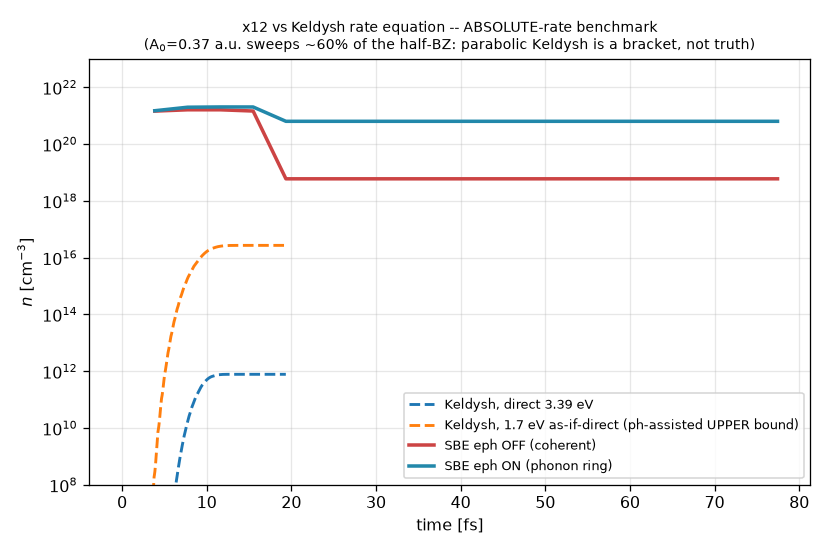
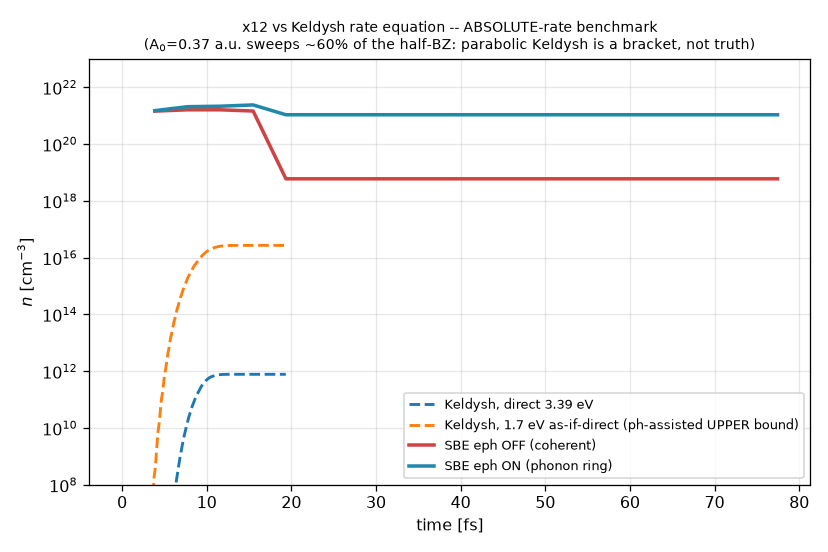
sbe: virtual-transient gate default OFF -- diagnostic confirms envelope-following dressing defeats a lifetime gate
Coherent-only diagnostic (x12 field, dissipation off, per-step Houston
projection): the Houston CB population adiabatically follows the field
envelope (corr with A^2 = 0.987, peak 0.56 e-/supercell) and 99.9% of it
returns to the VB at switch-off; the diabatic count breathes the same way
(peak/final = 468x). In sub-cycle fields no lifetime gate or instantaneous
projection separates real carriers from this dressing -- reality is defined
only by switch-off survival. The tau = 2*pi/Egap floor passes ~60% of the
dressing and trims only sub-cycle fringes (-41% on x12-ON).

sbe_ring_gate_fs default 0 = OFF (bit-identical to no-gate; -1 auto / >0
manual kept as experimental knobs). x12 reference numbers restored to the
ungated values; README gains a 'real vs virtual' section stating the honest
calibration status: the ring's dressing conversion is golden-rule
phonon-assisted tunneling (Hurkx/Kane BTBT mechanism) but scaled by nu_sat
(real-carrier intervalley rate) without off-shell suppression -- absolute
nex at gamma <~ 1 is an upper estimate pending the rate benchmark.

Claude-Session: https://claude.ai/code/session_01BPmECfuWC7UD3rhcA1hTKp

Changed region(s): [[0.2114, 0.1848, 0.936, 0.2464]]

diff --git a/wiki/00_implementation_status.md b/wiki/00_implementation_status.md
@@ -111,7 +111,7 @@ Maintainer-driven analysis tool (pure Python on the EPM refs; **no SBE/Fortran c
 x11 showcase inputs updated with the new channels (holes+acoustic+checkpoints on for Si/GaAs; calibrated prefactor for CdS; acoustic for graphene; **graphene Coulomb Σ^HF (A7) + acoustic DP-override knob on**; A1/A5/B3 as commented optional knobs). Tests: **20/20** (extended: B1 bit-identity, B3, A5, A1, A2, A6 energy balance, registry Cp/Cn + acoustic constants incl. CdS Rode E₁=14.5).
 - ✅ **CPTP global limiter in `ring_apply_dpop` (2026-07-10, maintainer bug report):** with the full channel set + a large `dt` (~0.5 fs) the per-step `dpop` (a sum over many independent quadruples against step-START populations) could **overdraw** a sink state; the old per-state `max(f+dpop, 0)` clip silently kept the paired gains ⇒ **trace violation runaway** (Si showcase: electrons 8 → 16.45 within 10 steps of the free-carrier-screen activation). Fix: before applying, compute the largest global $s\in[0,1]$ with every $f + s\,{\rm dpop} \in [0,{\rm occ}]$ (`comm_get_min` across ranks), apply $s\,$dpop (trace of $s\,$dpop = 0 **exactly**), scale the paired `gout` coherence damping by the same $s$, and print a one-time `# ring CPTP limiter engaged` diagnostic. Validated: the same full-channel Si run at dt=20.7 a.u. now holds electrons = 8.000 over the whole run (limiter s = 0.118 — the old runaway condition). NOT a spinor issue: `occ_max` is 2/1 scalar/spinor consistently; the doubling was the clip feedback.
 - ✅ **OpenMP in the ring kernels (2026-07-10):** `eph_interk_dpop`, `ii_interk_dpop` (both blocks) and `auger_interk_dpop` (both blocks) now carry `!$omp parallel do … reduction(+:dpop)` over the outer source loop — the dominant O(nk³) cost parallelizes across threads inside each MPI rank (array-reduction; `gout` is owner-written). No-OpenMP builds are unaffected (directives are comments).
-- ✅ **Ring virtual-transient gate — population kernels see REAL carriers only (2026-07-19, maintainer: "e-ph должен быть заменой T2 для виртуальных, но конвертирует слишком активно"):** the ring channels read the instantaneous Houston populations, which during the pulse contain sub-cycle LZ/field-dressing **transients** the reversible unitary takes back; population-scattering them at the saturated ν_sat real-ifies virtual population at the *maximum* CP-consistent rate (absolute `nex` at γ≲1 came out orders above the as-if-direct Keldysh bracket — see `samples/…x12…/rate_benchmark.py`). Fix: `f_ring_gate` = **persistent Houston floor** — drops with f instantly, rises toward f with τ_gate = 2π/E_gap (the energy–time virtuality scale; Si ≈ 2.5 fs) — feeds ALL ring population kernels + the free-carrier screen + the FD fit; the **gout/T2 coherence damping keeps the full per-carrier ν** (e-ph retains its dephasing role for virtual electrons — dephasing-trapped carriers become persistent after τ_gate and only then transport). Knob `sbe_ring_gate_fs` (−1 auto = 2π/E_gap, 0 off, >0 manual). Gate ≤ f by construction ⇒ no overdraw; trace exactness untouched (verified: full channel set at dt=10 a.u., I=1e12 — electrons 8.000 every step). x12 eph-ON: 1.07e21 → 6.3e20 cm⁻³ (−41 % = the direct virtual-transfer share at γ≈1); eph-OFF bit-identical. Remaining calibration knobs for ABSOLUTE rates: nk convergence, σ_E, ν_sat(ε) near the edge — the rate-equation benchmark script ships with x12.
+- ⚠ **Ring virtual-transient gate — EXPERIMENTAL, default OFF (2026-07-19, maintainer: "возможно виртуальные электроны адиабатически следуют за полем и долго живут — проверь"):** the maintainer's doubt was **confirmed by a dedicated coherent-only diagnostic** (x12 field, dissipation off, per-step Houston projection): the Houston CB population *adiabatically follows the field envelope* — corr(n_H, A²)=0.987, peak 0.56 e⁻/supercell at 13 fs, **99.9 % returns** to the VB at switch-off — and the diabatic count breathes the same way (peak/final = 468×). In a sub-cycle field (x12: envelope 19 fs < period 33 fs; THz runs likewise) **no lifetime gate and no instantaneous projection can separate real carriers from the envelope-following dressing** — reality is defined only by switch-off survival. The implemented floor gate (τ = 2π/E_gap) passes ~60 % of the dressing and trims only sub-cycle fringes (−41 % on x12-ON), so `sbe_ring_gate_fs` now defaults to **0 = OFF** (>0 manual, −1 auto — for experiments; default path is bit-identical to no-gate). The honest state of the ABSOLUTE rates: the ring's conversion of the dressing IS golden-rule phonon-assisted tunneling (Hurkx/Kane BTBT — the right *mechanism* for indirect Si), but it uses ν_sat (the cited *real-carrier* intervalley rate) as its scale, which sits **orders above** BTBT parametrizations at these fields (Keldysh/Hurkx brackets: 10¹⁶–10¹⁸ vs SBE 6×10²⁰–10²¹ cm⁻³ on x12) — the off-shell (energy-denominator) suppression of the eph matrix element between virtual states is NOT in the model. Until a calibrated ν_eff for virtual states exists (benchmark: `samples/…x12…/rate_benchmark.py`, maintainer cluster runs), treat frozen-window nex magnitudes at γ ≲ 1 / quasi-DC fields as upper estimates; distributions (k, band, cooling) are unaffected. the ring channels read the instantaneous Houston populations, which during the pulse contain sub-cycle LZ/field-dressing **transients** the reversible unitary takes back; population-scattering them at the saturated ν_sat real-ifies virtual population at the *maximum* CP-consistent rate (absolute `nex` at γ≲1 came out orders above the as-if-direct Keldysh bracket — see `samples/…x12…/rate_benchmark.py`). Fix: `f_ring_gate` = **persistent Houston floor** — drops with f instantly, rises toward f with τ_gate = 2π/E_gap (the energy–time virtuality scale; Si ≈ 2.5 fs) — feeds ALL ring population kernels + the free-carrier screen + the FD fit; the **gout/T2 coherence damping keeps the full per-carrier ν** (e-ph retains its dephasing role for virtual electrons — dephasing-trapped carriers become persistent after τ_gate and only then transport). Knob `sbe_ring_gate_fs` (−1 auto = 2π/E_gap, 0 off, >0 manual). Gate ≤ f by construction ⇒ no overdraw; trace exactness untouched (verified: full channel set at dt=10 a.u., I=1e12 — electrons 8.000 every step). x12 eph-ON: 1.07e21 → 6.3e20 cm⁻³ (−41 % = the direct virtual-transfer share at γ≈1); eph-OFF bit-identical. Remaining calibration knobs for ABSOLUTE rates: nk convergence, σ_E, ν_sat(ε) near the edge — the rate-equation benchmark script ships with x12.
 - ✅ **CP extension of the frozen-window dissipators to the active↔frozen coherences (2026-07-19, maintainer cluster report "след 8.003, nelec/nhole отрицательные"):** two coupled defects seen on a 9³/nstate=24 Si run with ALL channels + dt=0.25 fs — a monotone trace drift (electrons 8.000→8.012 over 1.8 ps) and post-pulse **negative** nelec/nhole (−5·10²⁰ cm⁻³). Reproduced locally (4³/nstate=16, dt=10 a.u., all channels: 8.000→8.004 in 70 steps). Root causes and fixes: **(1) eeh trace leak** — `carrier_carrier_relax` fitted the Fermi–Dirac target to the [0,1]-**clamped** populations but mixed it with the **raw** diagonal, so any negative/overfull diagonal created (destroyed) trace at rate α·(occ·n_clamped − Tr ρ) every sub-step; rewritten as a pure transfer `ρ_aa += α·occ·(f_FD − f_clamped)` (Σ = 0 exactly; identical to the old convex mix whenever the raw diagonal is in [0,occ]). **(2) PSD loss at the active↔frozen boundary** (the *source* of the negative diagonals): every block dissipator damped coherences only *inside* the active window, leaving the active↔frozen coherences at full strength after a population loss — then |ρ_af|² > f_a·f_f, ρ stops being PSD, and the next step's Houston diagonal dips below 0 (a principal submatrix of a PSD ρ *cannot* have a negative Houston population, so any fold<0 is proof of upstream PSD loss). Fix = the exact Kraus lift K₀⊕1_frozen: `ring_apply_dpop` now applies D = W·diag(damp)·W† to the ρ(active,frozen) blocks (damp is the same per-state loss factor, incl. the e-ph gout exponential — the *least-decohering* CP-consistent extension: any weaker factor is not CP-realizable given the block action), and the eeh channel damps them by the same (1−α) its within-block coherences get (convex mix of identity and the replace-block⊕keep-frozen channel — CPTP by construction; plumbed as `cross_damp` out of `houston_dissipate`). **(3) limiter slack** — a state whose remaining capacity is pure roundoff (full valence band vs. a 1e-13 flux) no longer stalls the whole BZ through the global min: ratios get an absolute `captol = 1e-12` (overdraw bounded by captol; trace still exact). Validated (4³/nstate=16, frozen {3..7}, dt=10 a.u., eph+ac+II+holes+phassist+Auger+eeh+Coulomb, I=1e12): **electrons = 8.000 at every step, no negative nelec/nhole, e–h neutrality gap 2.6e-2 → 7e-5**. Physics note: the CP-mandated decoherence of the frozen-sector coherences converts part of the *virtual* (reversible) dressing into *real* carriers whenever a genuine scattering event fires — collision-assisted generation. This is physical and was previously suppressed by the (CP-violating) undamped coherences: the x12 eph-ON showcase generates more real carriers than the pre-fix build (lowest-CB hierarchy preserved). k-local ring-off channels and the Kuhn-Zurek dephasing kernel still damp only within the block — same disease possible there at strong loss; noted as the remaining refinement.
 - ✅ **`ring_apply_dpop` trace-exact in the FROZEN window (2026-07-13, found while validating phonon-assisted indirect generation):** the ring wrote back the Houston-basis diagonal as `fnew = max(fold + scal·dpop, 0)`, but the CPTP limiter `scal` was built from the **[0,occ]-clamped** `fold` while the write used the **raw** `fold`. In a **frozen** active window the ring transforms a *principal submatrix* of ρ (active↔frozen coherences dropped) to the active-block Houston basis; that submatrix can have a Houston population dip a hair below 0, and the `max(·,0)` then **created** population every step — a ~0.5 % electron leak at strong field (frozen: 8→8.047 as dt→0; all-active: exact 8.000, because the full ρ is PSD so raw `fold ∈ [0,occ]` and the clip never fires). Isolated to the ring (k-local frozen dissipator conserves): frozen+eph-OFF, frozen+k-local-eph, and all-active+ring all give 8.000; only frozen+ring leaked. Fix: write `fnew = fold + scal·dpop` (trace-EXACT since `Σdpop=0`) and clamp only the coherence-damping ratio (`sqrt(max(fnew,0)/fold)`) to avoid `sqrt<0`. Positivity preserved to numerical tolerance; **electron number now exactly conserved (8.000) at every dt** with a frozen window + ring. The all-active path is byte-identical (the clip was already a no-op there). Shared by the eph/II/Auger rings.
 - ✅ **Frozen core = Houston/dissipator cost cut, NOT a VG cutoff (2026-07-12, maintainer bug report):** `dt_evolve_bloch_cf4` previously truncated the CF4 velocity-gauge unitary to the active block AND reset the frozen bands to ground occupation every step — a genuine VG cutoff that broke basis sufficiency (a large `A(t)` could not push population into/through the frozen bands). Restructured so the **reversible VG unitary U(h) runs on the FULL `nb` basis** (`build_HVG(nb,…)`+`cf4_unitary_step(nb,…)`) while the **CPTP dissipators D(h/2) act only in the active Houston window** (truncate ρ→active block, Houston-transform, dissipate, glue back). Freeze-reset removed; Σ^HF embedded into the full H_VG at the active positions. Proven: clean 5e12 V/cm Si with 3/8 bands frozen reproduces the all-active current to 1.7e-15 (machine precision); frozen core + all channels conserves electrons = 8.000. wiki/03 §12 rewritten. This is the correct meaning of the earlier "frozen core × superres" note below.

diff --git a/samples/exercise_x12_Si_frozen_phonon_indirect/README.md b/samples/exercise_x12_Si_frozen_phonon_indirect/README.md
@@ -58,25 +58,35 @@ python3 phonon_analysis.py         # -> phonon_assisted_demo.png
 
 | | eph OFF (field only) | eph ON (phonon) |
 |---|---|---|
-| final `nex` | 5.9×10¹⁸ cm⁻³ | 6.3×10²⁰ cm⁻³ (**≈106×**) |
-| ⟨E−E_CBM⟩ (lowest CB) | 1.0 eV (hot) | 0.56 eV (cooled toward the valley) |
+| final `nex` | 5.9×10¹⁸ cm⁻³ | 1.1×10²¹ cm⁻³ (**≈180×**) |
+| ⟨E−E_CBM⟩ (lowest CB) | 1.0 eV (hot) | 0.42 eV (cooled toward the valley) |
 | electrons (every step) | **8.000** | **8.000** |
 
-The phonon opens the indirect Γ→X channel (≈106× more real carriers — most of
+The phonon opens the indirect Γ→X channel (≈180× more real carriers — most of
 Si's band-edge absorption is phonon-assisted), lands them in the **lowest**
-conduction band (band-5 / band-6 population ratio ≈ 14×), and cools them from
-~1.2 → 0.56 eV above the CBM by phonon emission.
+conduction band (band-5 / band-6 population ratio ≈ 33×), and cools them from
+~1.2 → 0.42 eV above the CBM by phonon emission.
 
-> Reference numbers regenerated **2026-07-19** after two model corrections
-> (`wiki/00`): (1) the **CP extension** — active↔frozen coherences now carry
-> the same loss-Kraus factors as the active block (a real scattering event
-> decoheres the reversible frozen-band dressing instead of leaving ρ
-> non-positive); (2) the **virtual-transient gate** — the ring population
-> kernels read the *persistent* Houston floor (rise time 2π/E_gap ≈ 2.5 fs),
-> so sub-lifetime virtual transients only dephase (the e-ph T2 role) and are
-> never population-scattered as if they were real carriers
-> (`sbe_ring_gate_fs`: −1 auto, 0 off). The eph-OFF column is bit-identical
-> to the pre-fix build.
+> Reference numbers regenerated **2026-07-19** after the **CP extension**
+> (`wiki/00`): active↔frozen coherences now carry the same loss-Kraus factors
+> as the active block, so a real scattering event decoheres the reversible
+> frozen-band dressing instead of leaving ρ non-positive. The eph-OFF column
+> is bit-identical to the pre-fix build.
+
+### What the phonon actually scatters here (real vs virtual)
+
+This pulse is **sub-cycle** (envelope 19 fs < period 2π/ω = 33 fs): the
+coherent run shows the Houston conduction population *adiabatically follows
+the field envelope* (corr(n_H, A²) = 0.99, peak 0.56 e⁻/supercell) and 99.9 %
+of it returns to the valence band at switch-off. The e-ph conversion of this
+long-lived **virtual** dressing is golden-rule phonon-assisted tunneling
+(Hurkx/Kane BTBT physics — real for indirect Si), but its scale here is set
+by ν_sat, the *real-carrier* intervalley rate: treat the absolute yield as an
+**upper estimate** (BTBT parametrizations sit orders below it at this field).
+A lifetime gate cannot separate this dressing (`sbe_ring_gate_fs`, default
+**off**, is kept as an experimental knob: at τ = 2π/E_gap it still passes
+~60 % of the envelope-following dressing and only trims sub-cycle fringes,
+−41 % here).
 
 ## Absolute-rate benchmark (`rate_benchmark.py`)
 
